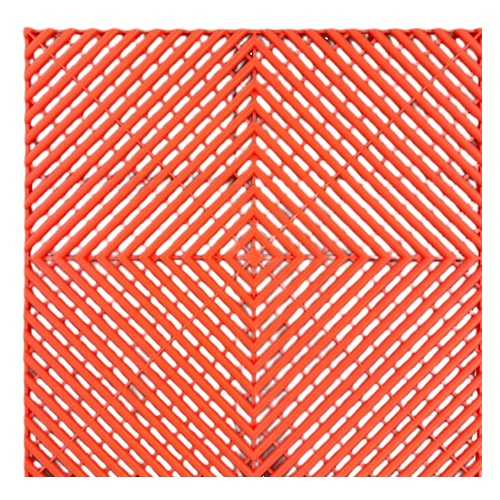
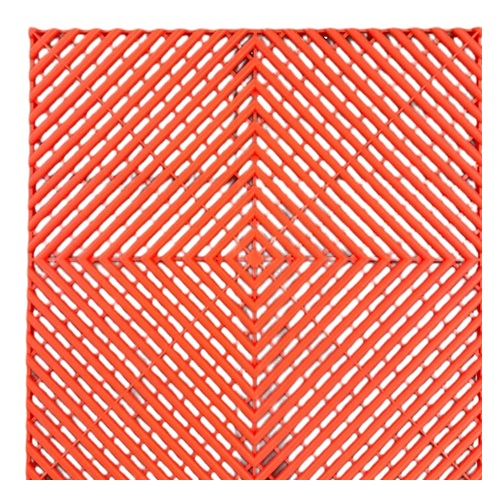
preview: conservar encastres de rejilla al enderezar

diff --git a/calculadora-baldosas/sw.js b/calculadora-baldosas/sw.js
@@ -1,4 +1,4 @@
-const CACHE = 'nexa-v96-rejilla-straight';
+const CACHE = 'nexa-v97-rejilla-encastres';
 const ASSETS = [
   './',
   './index.html',
